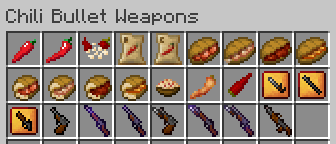
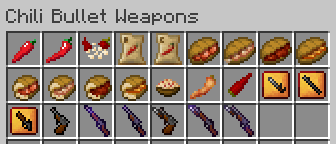
Fix image files in docs

Changed region(s): [[0.7738, 0.7222, 0.8929, 0.9444]]

diff --git a/docs/v1/weapons.md b/docs/v1/weapons.md
@@ -80,7 +80,7 @@ A chili bullet gun with bayonet is a chili bullet gun with a bayonet fitted and 
 
 Bayonet upgrade items can be used to make a chili bullet gun with bayonet retaining the enchantments.
 
-![Upgrading chili bullet gun](../media/item/misc/upgrading_chili_bullet_gun.png)
+![Upgrading chili bullet gun](../media/item/misc/upgrading_chili_bullet_gun_with_enchantments_and_damage.png)
 
 Each chili bullet gun with bayonet can also have a different appearance, display name, and performance depending on the enchantment it has.
 
